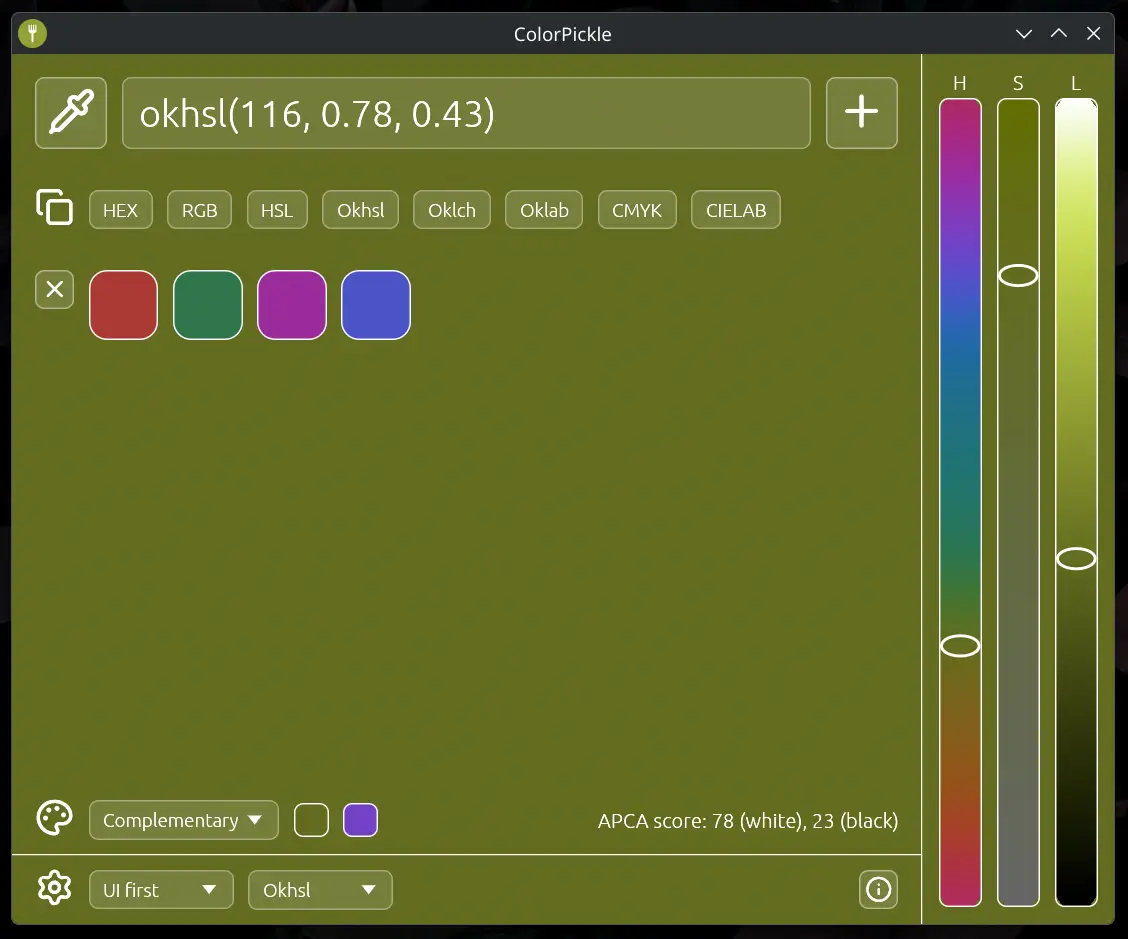
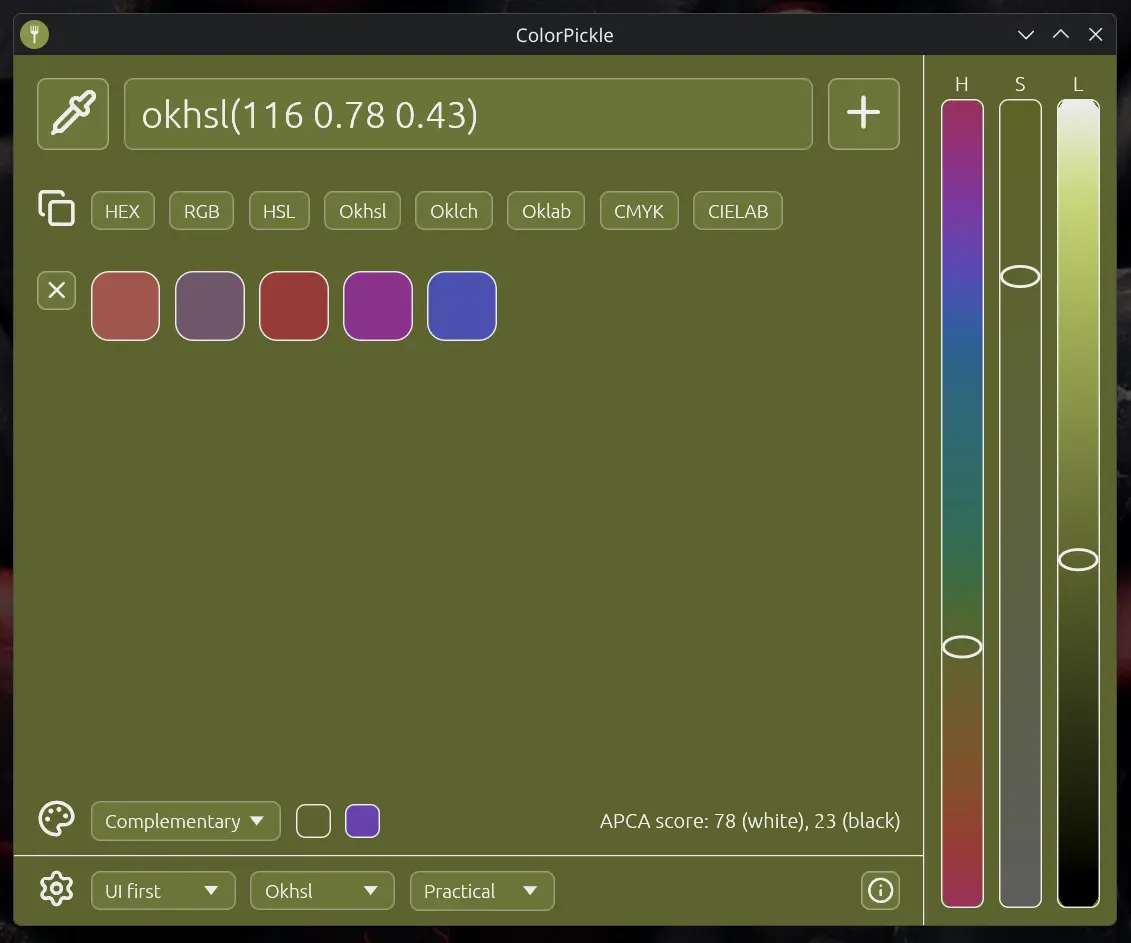
chore: update screenshot

diff --git a/README.md b/README.md
@@ -67,7 +67,7 @@ cargo fetch && cargo outdated -w         # check for updates above semver range
 cargo fmt --check                        # formatting check
 cargo fmt                                # format all files
 cargo run                                # build and run
-cargo test --workspace                   # tests
+cargo test                               # run test suite
 cargo build --release                    # release build
 cargo upgrade && cargo update --verbose  # update Cargo.lock and dependencies to latest with semver ranges
 
